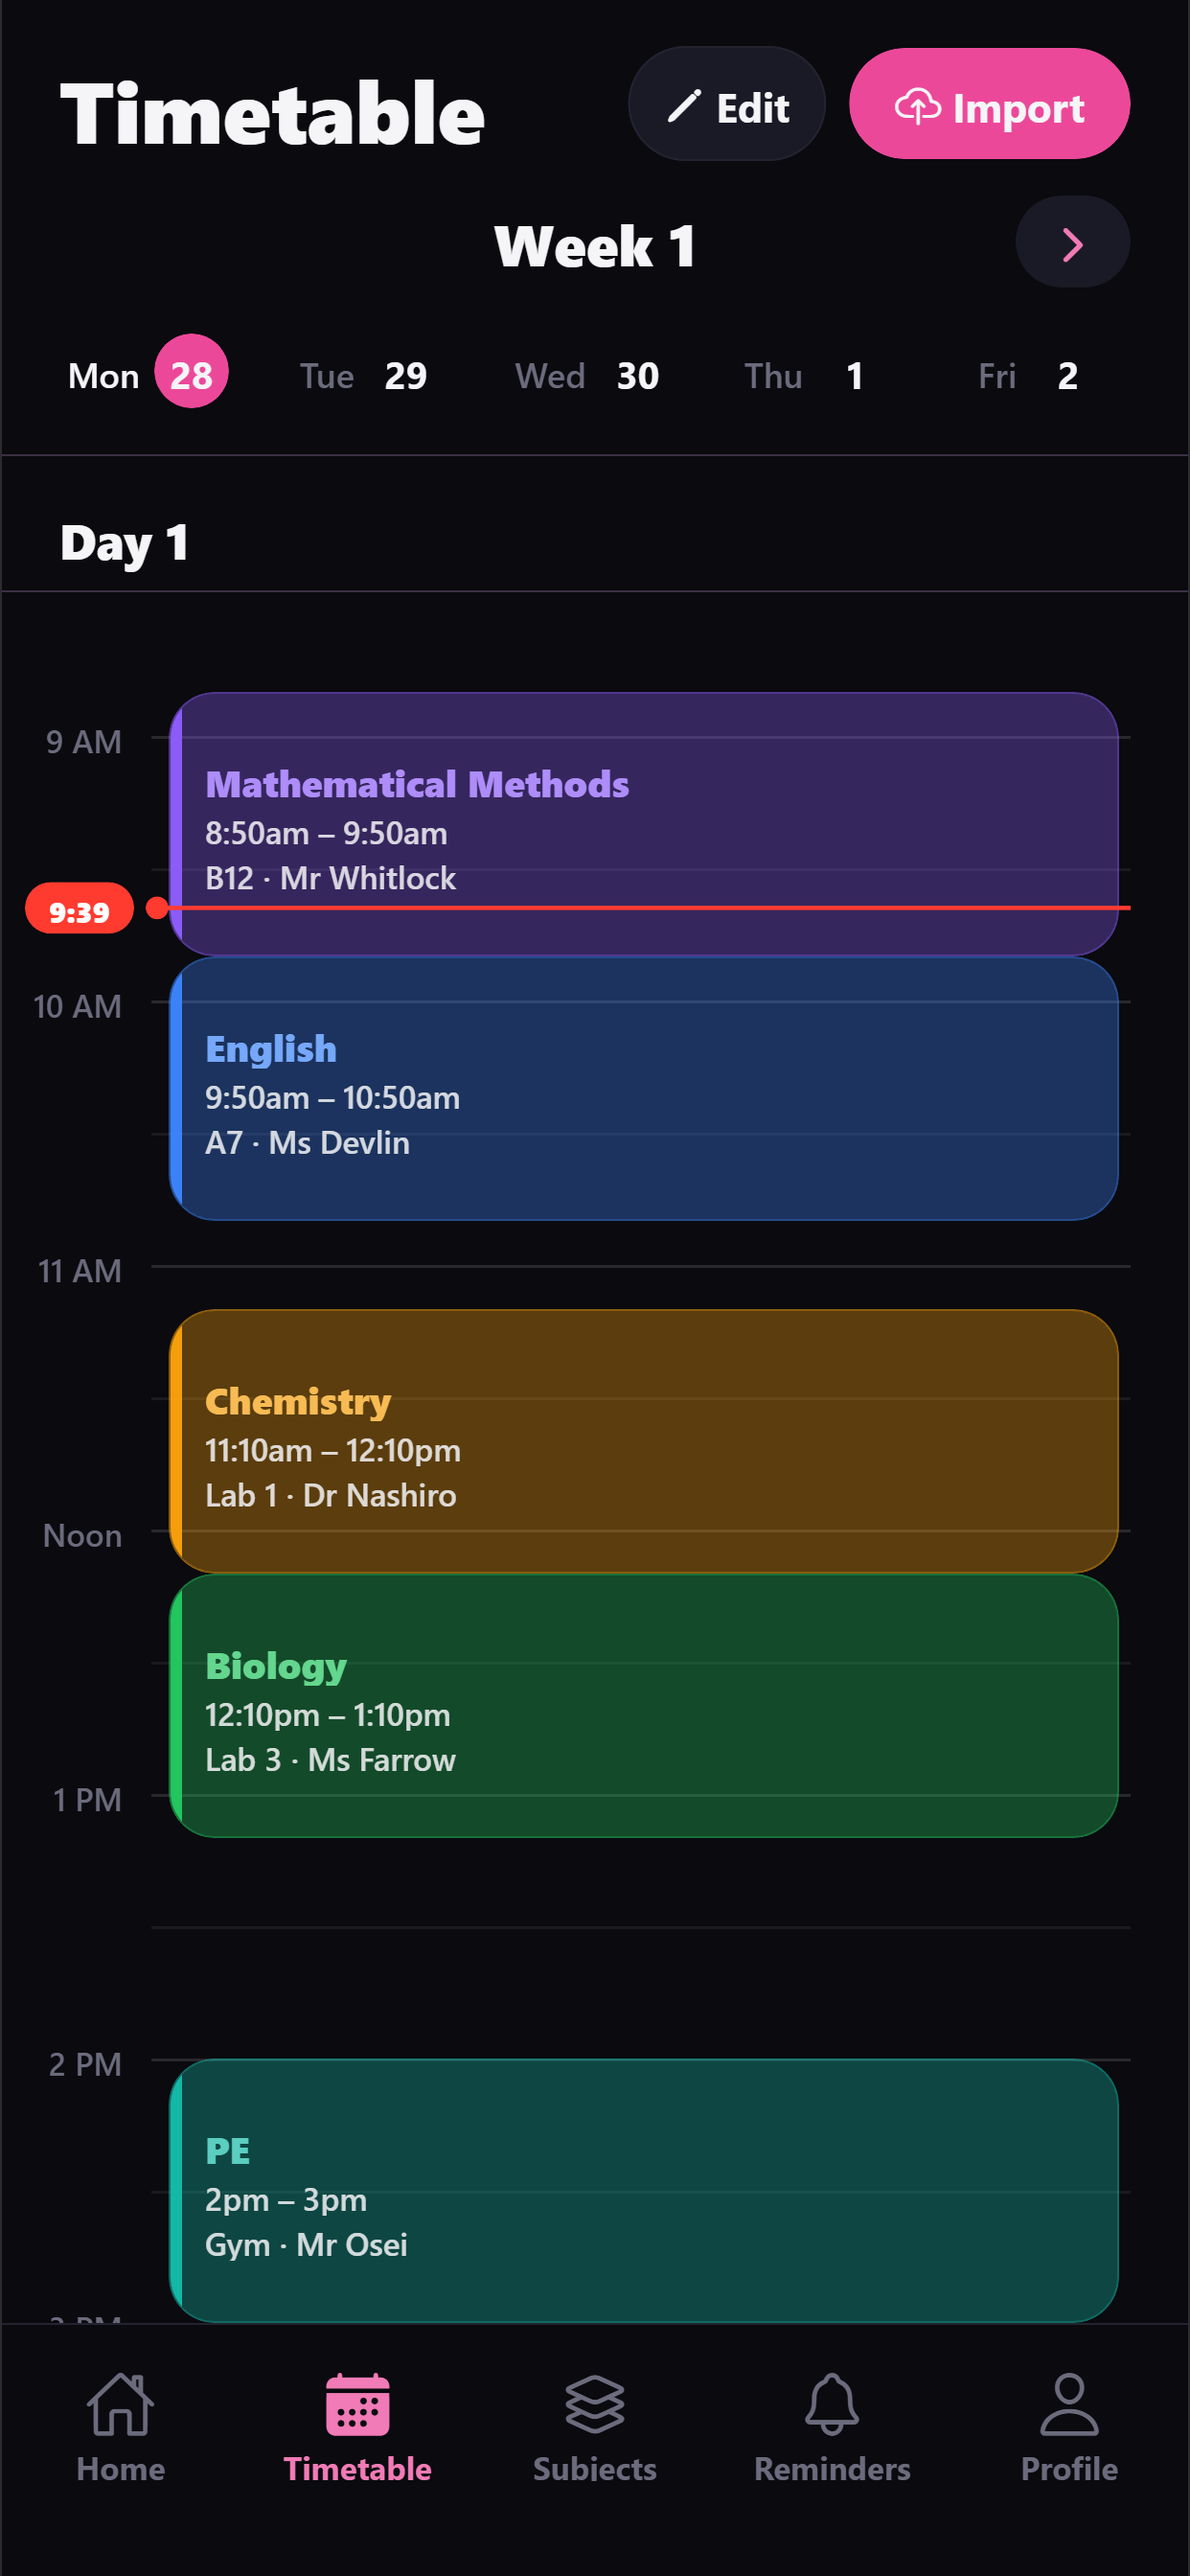
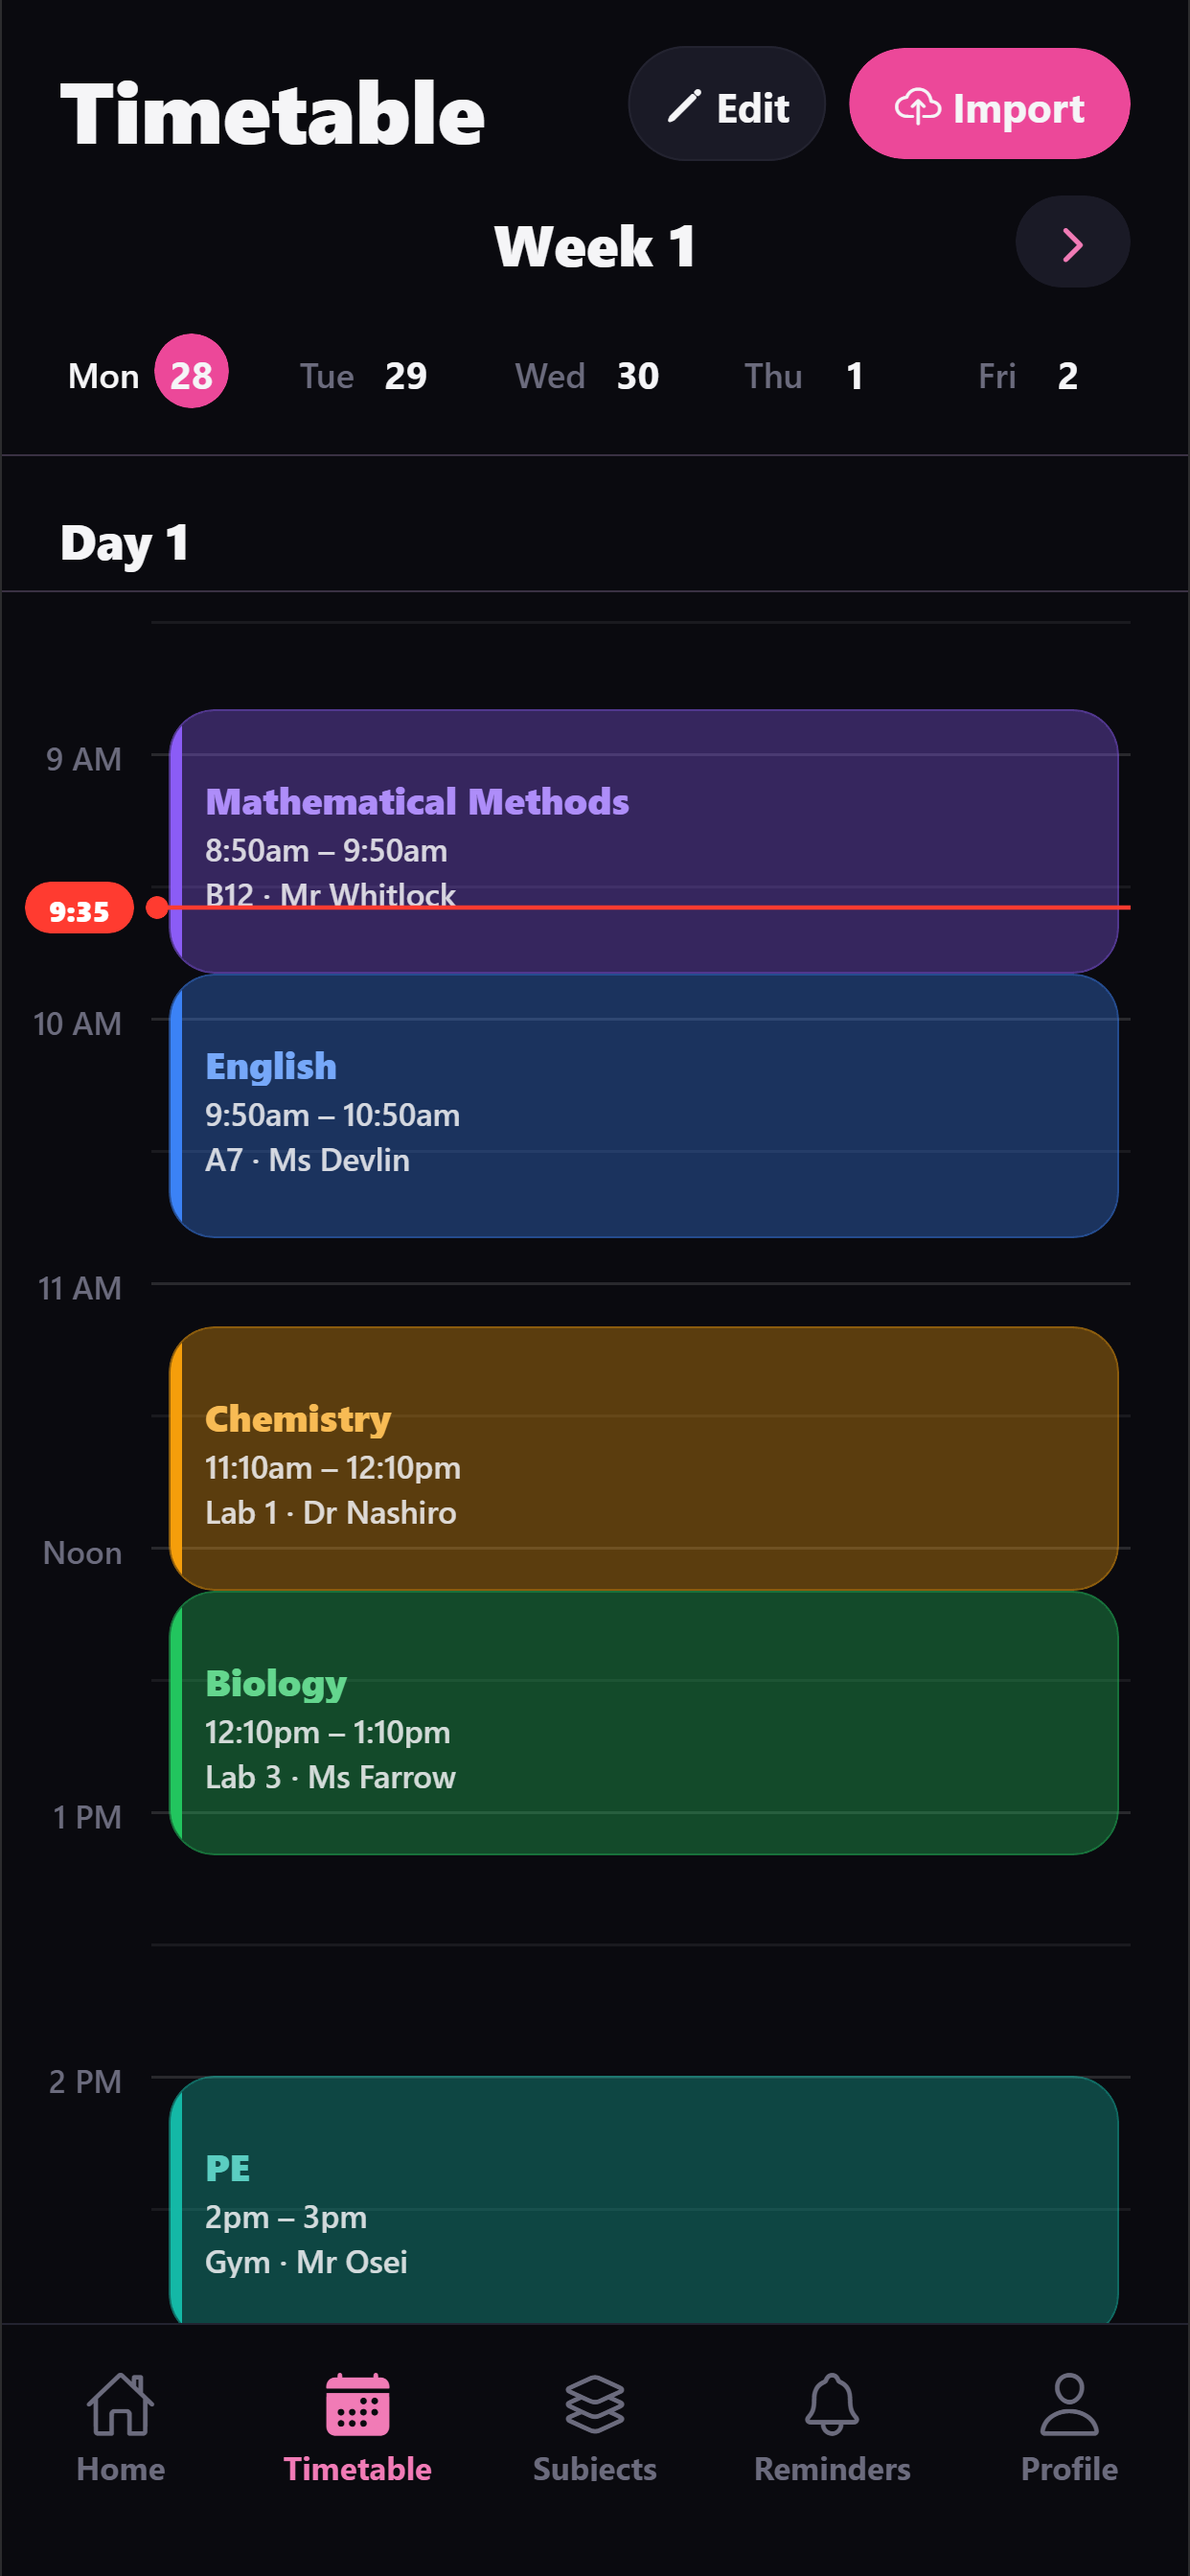
Centre the time inside the now-marker
The pill centred its Text box, which is not the same as centring what you
see in it: the line box reserves room for descenders and a clock time has
none, so the digits sat high in the red. Pinning the line height to the
pill and dropping the extra font padding puts them in the middle.

diff --git a/src/components/DayTimeGrid.tsx b/src/components/DayTimeGrid.tsx
@@ -434,7 +434,18 @@ const styles = StyleSheet.create({
     alignItems: 'center',
     justifyContent: 'center',
   },
-  nowPillText: { color: '#FFFFFF', fontSize: 10, fontWeight: '800' },
+  nowPillText: {
+    color: '#FFFFFF',
+    fontSize: 10,
+    fontWeight: '800',
+    // Centring the Text box is not the same as centring what you see in it:
+    // the line box reserves room for descenders, and a time has none, so the
+    // digits ride high. Pinning the line height to the pill and dropping the
+    // extra font padding puts the numerals in the middle of the red.
+    lineHeight: NOW_PILL_H,
+    textAlign: 'center',
+    includeFontPadding: false,
+  },
   nowDot: { width: 8, height: 8, borderRadius: 4, marginLeft: 4 },
   nowLine: { flex: 1, height: 1.5, marginLeft: -1 },
   block: {
